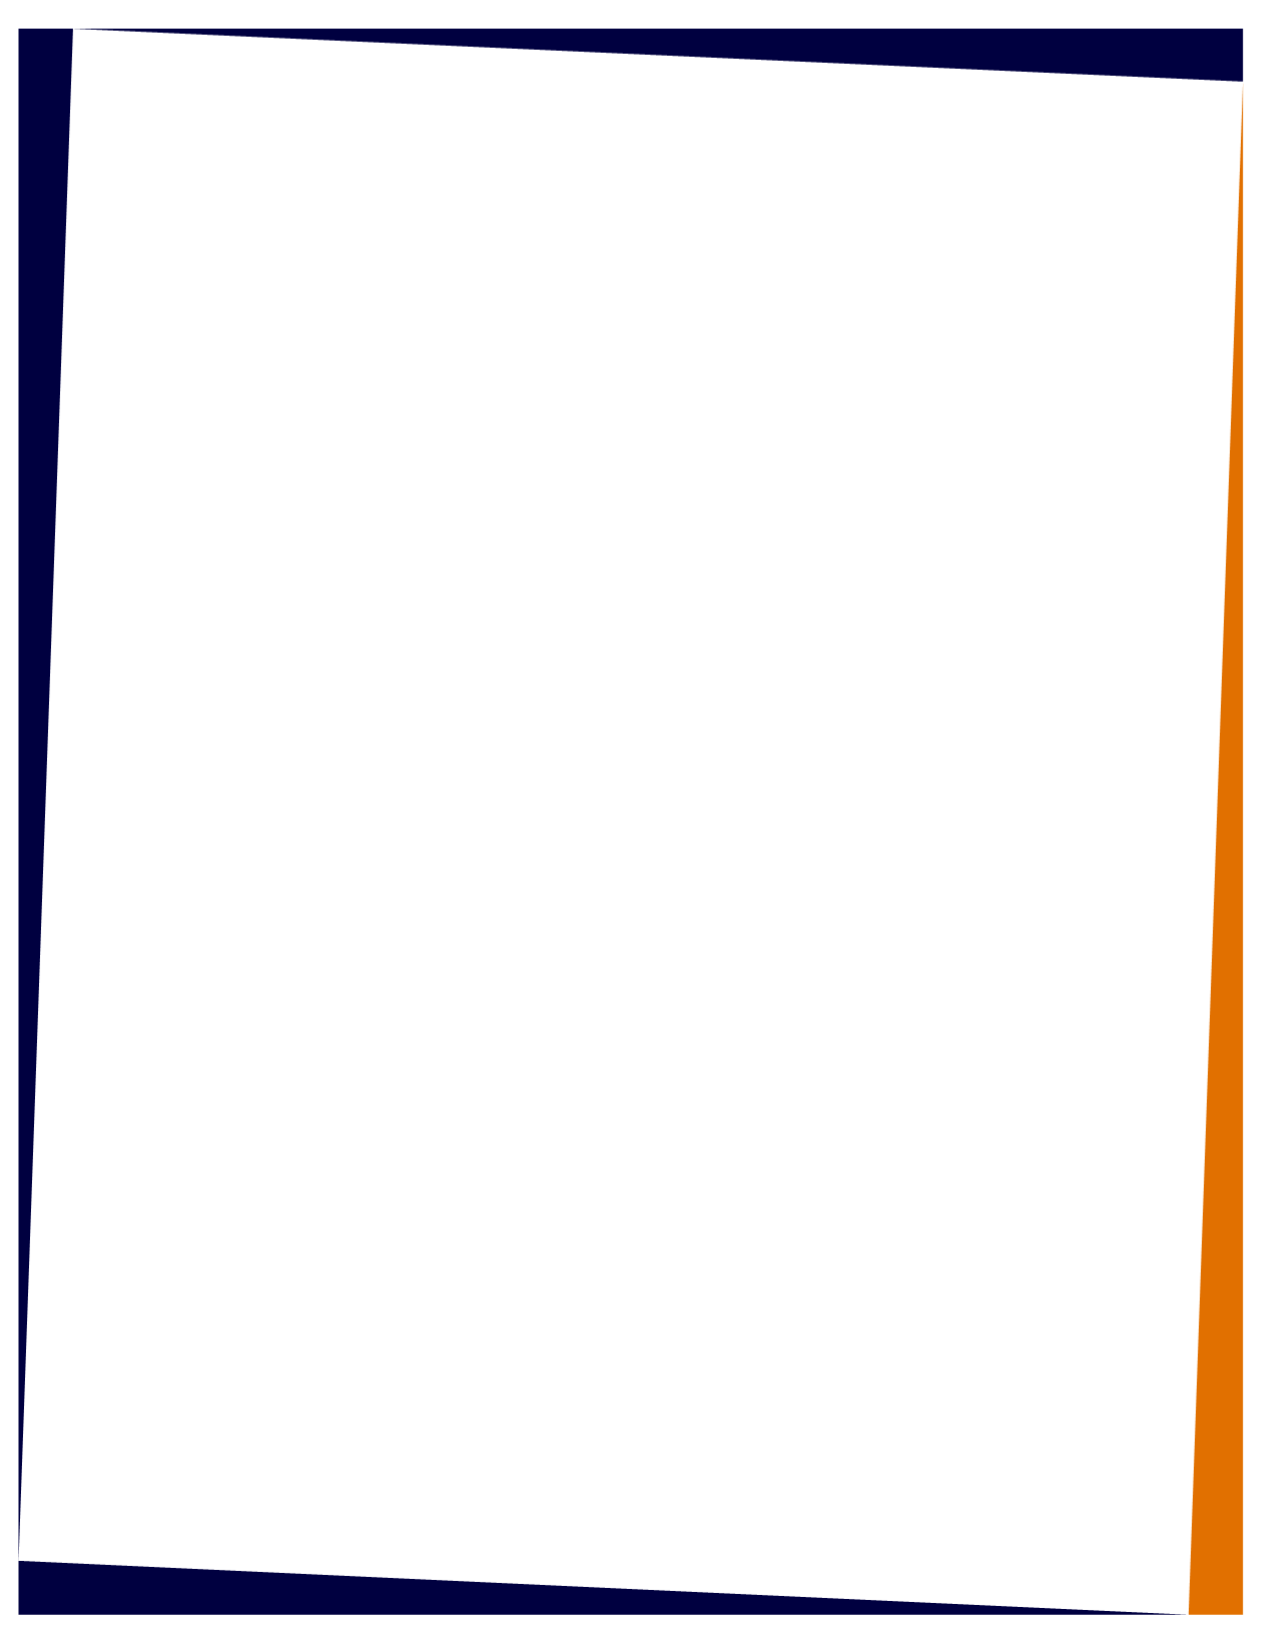
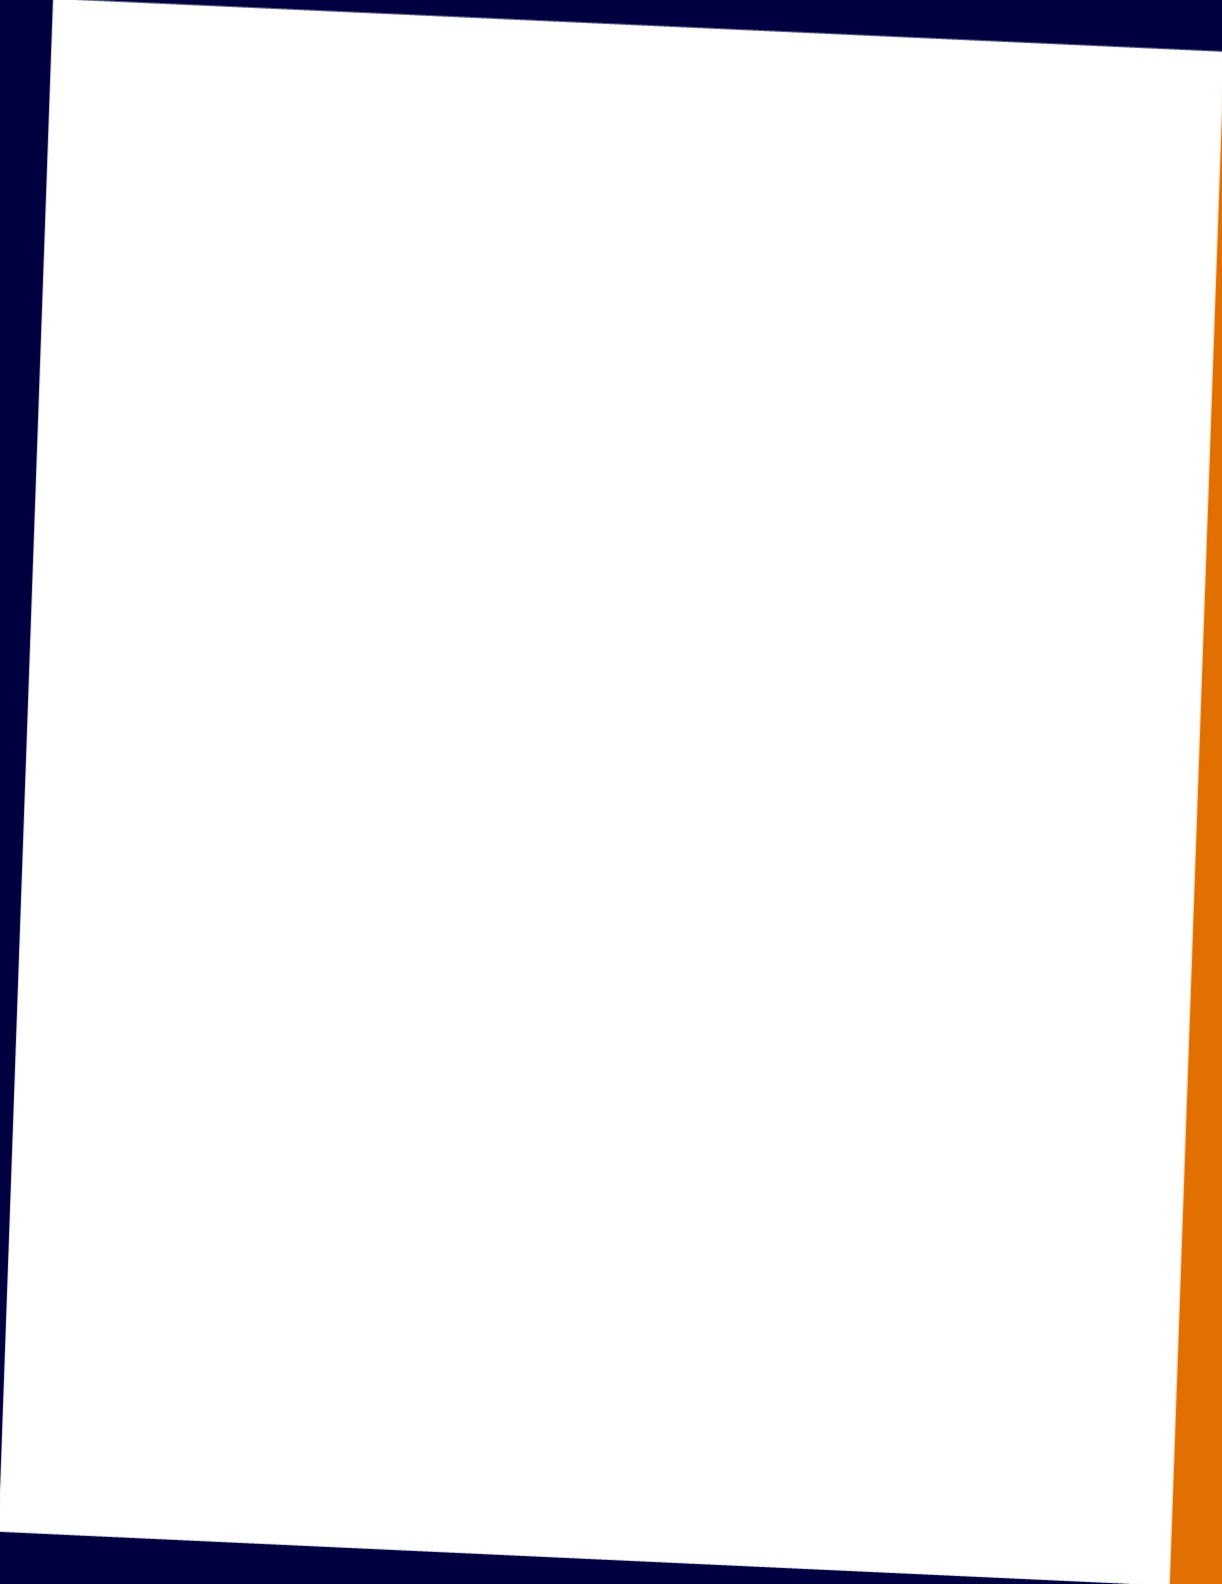
cambio de fondo en header

Changed region(s): [[0.0, 0.0, 0.9018, 1.0], [0.9329, 0.0619, 1.0, 1.0], [0.0933, 0.0, 1.0, 0.0619]]

diff --git a/index.html b/index.html
@@ -12,33 +12,33 @@
     <link rel="canonical" href="https://www.asasgroup.com.co/"> <!-- como que es la web que sale debajo en google -->
 </head>
 <body>
-  <header class="header"> <!-- encabezado -->
-    <figure class="logo">
-      <a href="index.html"> <!--(href="#" para el inicio de la pagina) link para ir parte superior de la pagina o <a href="index.html" para cargar nuevamente la pagina> -->
-        <img src="images/logo_ASAS.png" alt="Invie logotipo"/>
-      </a>
-    </figure>
-    <nav class="menu">
-      <ul> <!-- unordenal list -->
-        <li> <!-- list item --> <!-- target="_self" QUE ES-->
-          <a href="#qsomos">Quienes Somos</a> <!--a: anchor (ancla) para enlaces, para definir a dónde va el enlace. Esto también recibe rutas relativas y absolutas-->
-        </li>
-        <li>
-          <a href="#portaservicios">Portafolio</a>  <!--en el href, el # es el link para llevarnos a la seccion con id portaservicios. Ruta relativa-->
-        </li>
-        <li>
-          <a href="noticias.html"">Noticias</a> <!--este enlace nos lleva a el nuevo doc .html llamado noticias.html  ej. noticias.html el atributo target="_blank" abre la pagina en una nueva pestaña-->
-        </li>  
-        <li>
-          <a href="#trabajemosjuntos">Trabajemos Juntos</a> <!-- el # link para llevarnos a la seccion con id trabajemosjuntos. Ruta relativa-->
-        </li>
-      </ul>
-    </nav>
-  </header>
-  
-  <!-- <main></main> Contenido principal del <body> de un documento. Puede ser usado una sola vez por página, Este elemento no puede ser hijo de ninguno de los siguientes: header, nav, article, aside y footer. -->
+  <div class="headercompleto">
+    <header class="encabezado"> <!-- encabezado -->
+      <figure class="logo">
+        <a href="index.html"> <!--(href="#" para el inicio de la pagina) link para ir parte superior de la pagina o <a href="index.html" para cargar nuevamente la pagina> -->
+          <img src="images/logo_ASAS.png" alt="Invie logotipo"/>
+        </a>
+      </figure>
+      <nav class="menu">
+        <ul> <!-- unordenal list -->
+          <li> <!-- list item --> <!-- target="_self" QUE ES-->
+            <a href="#qsomos">Quienes Somos</a> <!--a: anchor (ancla) para enlaces, para definir a dónde va el enlace. Esto también recibe rutas relativas y absolutas-->
+          </li>
+          <li>
+            <a href="#portaservicios">Portafolio</a>  <!--en el href, el # es el link para llevarnos a la seccion con id portaservicios. Ruta relativa-->
+          </li>
+          <li>
+            <a href="noticias.html"">Noticias</a> <!--este enlace nos lleva a el nuevo doc .html llamado noticias.html  ej. noticias.html el atributo target="_blank" abre la pagina en una nueva pestaña-->
+          </li>  
+          <li>
+            <a href="#trabajemosjuntos">Trabajemos Juntos</a> <!-- el # link para llevarnos a la seccion con id trabajemosjuntos. Ruta relativa-->
+          </li>
+        </ul>
+      </nav>
+    </header>
+    <!-- <main></main> Contenido principal del <body> de un documento. Puede ser usado una sola vez por página, Este elemento no puede ser hijo de ninguno de los siguientes: header, nav, article, aside y footer. -->
 
-    <div class="sentence contenedor"> <!-- frase -->
+    <div class="sentence encabezado"> <!-- frase -->
         <h1 class="frase">¡No pierdas el enfoque de tu negocio, permítenos ser tu aliado contable, financiero y tributario!</h1>
     </div>
   </div>
@@ -49,11 +49,9 @@
       <div class="somos-details">
         <p>Somos un equipo de <b>profesionales especializados</b> en asesoría contable, financiera y tributaria. Reconocidos por contribuir en el mejoramiento continuo de nuestros clientes.</p>
       </div>
-      <!-- <figure class="somos-image">
-
-      </figure> -->
     </article>
   </section>
+
   <section class="portafolio contenedor" id="portaservicios"> <!-- portafolio -->
     <h2 class="subtitle">PORTAFOLIO DE SERVICIOS</h2>
     <article class="service">
@@ -67,16 +65,9 @@
       </figure>
     </article>
   </section>    
-<<<<<<< HEAD
-  <section class="contenedor"> <!-- noticias -->
-    <h2 style="border: 1px solid blue; height: 140px;">mas cosas aca</h2>
-  </section>
+
+
   <footer class="footer" id="trabajemosjuntos"> <!-- trabajemos juntos -->
-=======
-
-
-  <footer class="footer header" id="trabajemosjuntos"> <!-- trabajemos juntos -->
->>>>>>> noticias
     <div class="contenedorfoot">
       <div class="contacto">
         <img src="images/logo_ASAS_gris.png" alt="Logo Gris" width="150px">

diff --git a/noticias.html b/noticias.html
@@ -12,7 +12,7 @@
     <link rel="canonical" href="https://www.asasgroup.com.co/"> <!-- como que es la web que sale debajo en google -->
 </head>
 <body>
-    <header class="header"> <!-- encabezado -->
+    <header class="encabezado"> <!-- encabezado -->
         <figure class="logo">
             <a href="index.html"> <!--(href="#" para el inicio de la pagina) link para ir parte superior de la pagina o <a href="index.html" para cargar nuevamente la pagina> -->
             <img src="images/logo_ASAS.png" alt="Invie logotipo"/>
@@ -40,7 +40,7 @@
         <h2 style="border: 1px solid blue; height: 140px;">Noticias Noticiosas <br>Extra Extra!!!</h2>
     </section>
     
-    <footer class="footer header" id="trabajemosjuntos"> <!-- trabajemos juntos -->
+    <footer class="footer" id="trabajemosjuntos"> <!-- trabajemos juntos -->
         <div class="contenedorfoot">
             <div class="contacto">
             <img src="images/logo_ASAS_gris.png" alt="Logo Gris" width="150px">

diff --git a/css/css.css b/css/css.css
@@ -12,7 +12,6 @@ body{
     background-image: url('../images/Margen.png');  /*los dos puntos es para devolvernos la carpeta, es decir, seleccion de la imagen background.png de la carpeta images, desde la carpeta CSS donde estamos programando invie.css por eso nos devolvemos con .. para tomar la ruta*/
     background-size: cover; /*para que la imagen haga la mejor distribucion en el tamaño disponible*/ 
     margin: 0;
-    margin: 70px auto 0;
     padding: 0;
 }
 
@@ -22,8 +21,9 @@ body{
     position: relative;
 }
 
-.pedidoJu{
-    background: lightblue;
+.headercompleto{
+    background-image: url('../images/acountant.jpg');
+    padding: 20px 0 40px 0;
 }
 
 .logo img {
@@ -77,6 +77,7 @@ body{
 
 .sentence{
     text-align: center;
+    color: orangered;
 }
 
 .frase {
